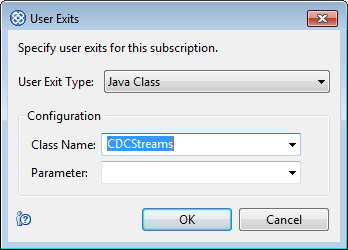
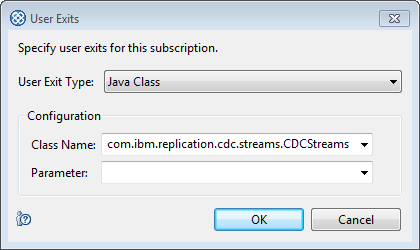
Included images in repository and enhanced documentation

diff --git a/README.md b/README.md
@@ -1,119 +1,10 @@
 # InfoSphere CDC Streams toolkit
 ==============
 
-![documentation readme](documentation/README.md)
-
-
 This toolkit allows Streams to receive tuples from InfoSphere Data Replication Change Data Capture. It provides a CDC Java user exit which allows subscriptions to push record changes to a Streams application and two Streams operators to respectively receive the incoming tuples (CDCSource) and convert (CDCParse) them into a tuple. The toolkit contains an example which demonstrates the use of the Streams operators.
 
-## Installing the toolkit
-You can choose to either install the pre-built toolkit, or to build it yourself on the IBM Streams server using the ant tool. In either case, some manual steps are required to implement the CDC user exit jar file on the CDC Engine server and to make the CDC Access Server files available on the Streams server. 
-
-One part of the toolkit, CDCStreamsUserExit, must be installed on the CDC server; this part contains the user exit which is to be configured for the CDC subscriptions. 
-
-The other component, com.ibm.streamsx.cdc, must be installed on the IBM Streams server and contains the CDCSource and CDCParse operators which can be incorporated into the Streams application.
-
-### Downloading the CDC Streams toolkit
-* Download the full toolkit as a zip file: https://github.com/IBMStreams/streamsx.cdc/archive/master.zip into a temporary directory, for example /tmp
-* Unzip the master.zip file
-
-### Optional: build the toolkit using ant
-Optionally, only if you plan to build (recompile) the toolkit, the CDC Engine jar files are needed to compile the user exit.
-* Create a directory that holds the CDC engine components, for example /tmp/CDCEngine
-* Copy the CDC Engine lib folder to this directory
-
-* Create a directory structure opt/downloaded, which will hold the Access Server jar files, under the CDC Streams toolkit, for example: mkdir -p /tmp/streamsx.cdc/com.ibm.streamsx.cdc/opt/downloaded
-* Copy the contents of the CDC Access Server lib folder (jar files) to the opt/downloaded directory
-* Set the Streams environment variables by sourcing the `streamsprofile.sh` script which can be found in the Streams `bin` directory
-* Set environment variable `CDC_ENGINE_HOME` to the directory that contains the CDC Engine's lib folder, for example `/tmp/CDCEngine`
-* Go to the toolkit's main directory that holds the build.xml file, for example: `cd /tmp/streamsx.cdc`
-* Run `ant`
-
-### Implementing the CDC toolkit on the Streams server
-To access the CDC configuration, the Streams toolkit requires the jar files which are provided as part of the CDC Access Server. If you have not built the toolkit using ant (described in the previous section), you will need to copy the CDC Access Server jar files into the toolkit's directory structure.
-* Create a directory structure opt/downloaded, which will hold the Access Server jar files, under the CDC Streams toolkit, for example: `mkdir -p /tmp/streamsx.cdc/com.ibm.streamsx.cdc/opt/downloaded`
-* Copy the contents of the CDC Access Server lib folder (jar files) to the `opt/downloaded` directory
-
-To register the toolkit in IBM Streams, it must be moved to a directory in the toolkit path.
-* Move the `com.ibm.streamsx.cdc` directory to `$STREAMS_INSTALL/toolkits`; this will make it visible to IBM Streams and Streams Studio
-
-We do not recommend installing the CDC engine and CDC Access Server components on the Streams server, but rather copy the required components to the Streams server.
-
-### Implementing the CDC Streams user exit on CDC target engine
-* Transfer the CDCStreamsUserExit folder to the CDC installation directory (_cdc-home_) on the target engine
-* Update the _cdc-home_/conf/system.cp file and append the following string to the classpath: `:CDCStreamsUserExit:CDCStreamsUserExit/lib/*`
-* Stop all subscriptions targeting the CDC instance in question and restart the instance 
-
-### Configuration
-The behaviour of the CDC Streams user exit is determined by the settings in `CDCStreams.properties` file, which is kept in the `CDCStreamsUserExit` folder. You can create multiple properties files and refer to them as a parameter in the subscription-level user exit. The user exit will first look for the properties file in the CDC engine's classpath (which has been enhanced with the `CDCStreamsUserExit` directory). If the specified properties file is not found in the classpath, the user exit will try to load it from the current directory, which is the _cdc-home_ directory.
-
-The most-important parameters to configure in the CDCStreams.properties file are:
-* outputType: Specifies the target of the user exit. For the tightest integration between CDC and Streams, we recommend to set this parameter to "cdcsource"; this causes the user exit to try to connect to the toolkit's CDCSource operator
-* tcpHostPort: Host name (or IP address) and port that the Streams application is listening to. This parameter applies when the outputType is cdcsource or tcpsource only
+## Installation of the toolkit
+Installation instructions can be found here: [Installing the toolkit](documentation/Installation.md)
 
 ## Getting started
-
-### Mapping tables
-First you must create a subscription referencing the source datastore and the target datastore. The target datastore must reference the CDC installation in which the CDCStreams user exit has been placed.
-
-![01_create_subscription](documentation/Images/01_create_subscription.PNG)
-
-Once the subscription has been created, right-click it and select "User Exit". Subsequently specify CDCStreams as the user exit name and optionally specify the name of the properties file that this subscription will use. If no parameter is specified, the default properties file _cdc-home_/CDCStreamsUserExit/CDCStreams.properties is assumed. By default, the user exit will attempt to find the properties file under the _cdc-home_/CDCStreamsUserExit folder.
-
-![02_subscription_user_exit](https://cloud.githubusercontent.com/assets/8166955/9888417/43104868-5bf5-11e5-8489-71c6148242e5.PNG)
-
-Map a table from source to target, select "Custom" mapping type for mapping an individual table (recommended).
-
-![03_select_mapping_type](https://cloud.githubusercontent.com/assets/8166955/9888420/4312e000-5bf5-11e5-97d6-98f1298ef9de.PNG)
-
-Select the source table for which DML operations must be replicated to your Streams application.
-
-![04_select_source_table](https://cloud.githubusercontent.com/assets/8166955/9888418/4310950c-5bf5-11e5-94a0-48da07bd43a2.PNG)
-
-Effectively you only need one target table for all table mappings; the CDC user exit prevents changes from being written to the selected target table. Create a "dummy" target table the first time you map a table to Streams and re-use this target table for all mappings.
-![05_select_new_target_table](https://cloud.githubusercontent.com/assets/8166955/9888419/4311aa00-5bf5-11e5-9380-4379b4ed3745.PNG)
-![06_create_table](https://cloud.githubusercontent.com/assets/8166955/9888421/4314befc-5bf5-11e5-9a18-16af7cc8ee85.PNG)
-![07_create_table](https://cloud.githubusercontent.com/assets/8166955/9888422/4326b06c-5bf5-11e5-971b-e5b735b3b1f0.PNG)
-![08_remove_columns_add_key](https://cloud.githubusercontent.com/assets/8166955/9888423/432839fa-5bf5-11e5-92a2-ecc6bca3a665.PNG)
-![09_specify_key](https://cloud.githubusercontent.com/assets/8166955/9888425/432d901c-5bf5-11e5-9d33-7d577b54a484.PNG)
-![10_review_table](https://cloud.githubusercontent.com/assets/8166955/9888424/432cfe54-5bf5-11e5-9ac7-dba5d9a8664d.PNG)
-
-Select the target table and specify the key.
-
-![11_select_target_table](https://cloud.githubusercontent.com/assets/8166955/9888427/4332a822-5bf5-11e5-95be-7f88d30c8b65.PNG)
-![12_specify_key](https://cloud.githubusercontent.com/assets/8166955/9888426/432f236e-5bf5-11e5-89dd-f3247714c7da.PNG)
-
-Set the replication method to Mirror.
-
-![13_set_replication_method](https://cloud.githubusercontent.com/assets/8166955/9888429/4340b26e-5bf5-11e5-842d-f3d16be91030.PNG)
-
-Review the mappings and confirm the mapping of the source table.
-
-![14_review_mappings](https://cloud.githubusercontent.com/assets/8166955/9888428/433fbcec-5bf5-11e5-90b3-5c3a32ce9fcb.PNG)
-
-When the table has been successfully mapped, specify "com.ibm.replication.cdc.streams.CDCStreams" as the user exit for the "before insert", "before update" and "before delete" actions.
-
-![15_set_user_exit](https://cloud.githubusercontent.com/assets/8166955/9888430/43471884-5bf5-11e5-8328-2850c43dcfdf.PNG)
-
-Dependent on the target engine, the replication status will be set to either Refresh or Active. Plesae ensure that you select the proper replication status, dependent whether you want all records to be sent to the Streams application at the start of the subscription, or only replicate the changes from this moment on.
-
-### Creating your Streams application 
-
-## Troubleshooting
-If you have issues replicating database transactions to your Streams application, you can validate the correct working of individual components.
-
-### Check the CDC event log and instance log messages
-If the CDCStreams user exit cannot post messages to the Streams applications, or if the subscriptions has not been configured correctly, error messages are issued in the subscription's target event log. You can find additional detailed messages in the instance log file (under _cdc-home_/instance/_instance_/log). Optionally, activate debugging for the user exit by setting debug=true in the CDCStreams.properties configuration file.
-
-### Testing the CDCStreams user exit
-The easiest way to validate that the CDCStreams user exit generates the correct data is by targeting a TCP/IP listener process that is started through the netcat tool. 
-* Change the CDCStreams.properties file and specify "tcpsource" for the outputType property 
-* Subsquently specify <host>:<port> (for example localhost:12345) for the tcpHostPort property
-* Once finished, start a netcat listener on the server you specified in the tcpHostPort property, for example: nc -l 12345
-* Start the CDC subscription. As soon as the subscription starts, it will first send an initialization entry to the listener. Optionally make some database changes to see them appear in the netcat listener
-* If no messages are received by the netcat listener, check the CDC instance log file (under _cdc-home_/instance/_instance_/log) for errors
-
-### Testing the Streams operators
-
-
-
+Once installation is done, here you can find how to use the toolkit: [Using the CDCStreams toolkit](documentation/Usage.md)

diff --git a/documentation/Usage.md b/documentation/Usage.md
@@ -1,0 +1,89 @@
+# Getting started
+
+## Initial configuration
+The behaviour of the CDC Streams user exit is determined by the settings in `CDCStreams.properties` file, which is kept in the `CDCStreamsUserExit` folder. You can create multiple properties files and refer to them as a parameter in the subscription-level user exit. The user exit will first look for the properties file in the CDC engine's classpath (which has been enhanced with the `CDCStreamsUserExit` directory). If the specified properties file is not found in the classpath, the user exit will try to load it from the current directory, which is the _cdc-home_ directory.
+
+The most-important parameters to configure in the CDCStreams.properties file are:
+* outputType: Specifies the target of the user exit. For the tightest integration between CDC and Streams, we recommend to set this parameter to "cdcsource"; this causes the user exit to try to connect to the toolkit's CDCSource operator
+* tcpHostPort: Host name (or IP address) and port that the Streams application is listening to. This parameter applies when the outputType is cdcsource or tcpsource only
+
+## Mapping tables
+First you must create a subscription referencing the source datastore and the target datastore. The target datastore must reference the CDC installation in which the CDCStreams user exit has been placed.
+
+### Create subscription
+![01_create_subscription](Images/01_create_subscription.PNG)
+
+### Select source table
+Map a table from source to target, select "Custom" for mapping an individual table (recommended) and choose Standard mapping type
+
+![03_select_mapping_type](Images/03_select_mapping_type.PNG)
+
+Select the source table for which DML operations must be replicated to your Streams application.
+
+![04_select_source_table](Images/04_select_source_table.PNG)
+
+### First time only: create dummy target table
+Effectively you only need one target table for all table mappings; the CDC user exit prevents changes from being written to the selected target table and only uses the source columns to replicate to the user exit. Create a "dummy" target table the first time you map a table to Streams and re-use this target table for all mappings.
+![05_select_new_target_table](Images/05_select_new_target_table.PNG)
+![06_create_table](Images/06_create_table.PNG)
+![07_create_table](Images/07_create_table.PNG)
+![08_remove_columns_add_key](Images/08_remove_columns_add_key.PNG)
+![09_specify_key](Images/09_specify_key.PNG)
+![10_review_table](Images/10_review_tables.PNG)
+
+### Select the target table
+Select the target table and specify the key. **Note:** If you have already mapped a table in this subscription, and you want to use only 1 "dummy" target table, you have to check the "Include mapped target tables" checkbox to see the `CDCSTREAMS` target table
+
+![11_select_target_table](Images/11_select_target_table.PNG)
+![12_specify_key](Images/12_specify_key.PNG)
+
+### Set replication method
+Set the replication method to Mirror.
+
+![13_set_replication_method](Images/13_set_replication_method.PNG)
+
+Review the mappings and confirm the mapping of the source table.
+
+![14_review_mappings](Images/14_review_mappings.PNG)
+
+### Set table-level user exit
+When the table has been successfully mapped, specify `com.ibm.replication.cdc.streams.CDCStreams` as the user exit for the "before insert", "before update" and "before delete" actions.
+
+![15_set_user_exit](Images/15_set_user_exit.PNG)
+
+Dependent on the target engine, the replication status will be set to either Refresh or Active. Please ensure that you select the proper replication status, dependent whether you want all records to be sent to the Streams application at the start of the subscription, or only replicate the changes from this moment on.
+
+#### Optional: Set parameters for user exit
+The table-level user exit accepts 2 optional parameters: `txTableName` and `fixColumns`.
+
+If you are using CDC Event Server as the target engine, in some configurations the table name may not be provided to the user exit and the subscription will stop with an error. To avoid this error, you can manually provide the fully qualified table name by setting a parameter for the user exit, for example: `txTableName=TELCO.CUST_THRESHOLD`
+
+When some of the source columns contain carriage returns or line feeds or the separator character you have chosen, your Streams application may fail to process the records and issue an error (ArrayOutOfBoundsException), or even transform the input into incorrect data. With the `fixColumns` parameter you can specify which columns must be checked for the existence of a carriage return, line feed or separator character and then replaced by a substitution character that is specified in the properties file. Example: `fixColumns=MSISDN,NAME`
+
+### Set subscription-level user exit (one time only)
+Once at least one table has been mapped, right-click the subscription and select "User Exit". Subsequently specify `com.ibm.replication.cdc.streams.CDCStreams` as the user exit name.
+
+![02_subscription_user_exit](Images/02_subscription_user_exit.PNG)
+
+#### Optional: Configure properties file to be used for this subscription
+You can optionally specify the name of the properties file that this subscription will use, this to obtain the host and port that the Streams application listens on, and specify other settings. If no parameter is specified, the user exit will find the default properties file `CDCStreams.properties` in the classpath of the CDC engine (and thereby find it in the `CDCStreamsUserExit` folder). If the properties file cannot be found in the classpath, the engine's current directory (_cdc-home_) will be searched
+
+### Creating your Streams application 
+
+## Troubleshooting
+If you have issues replicating database transactions to your Streams application, you can validate the correct working of individual components.
+
+### Check the CDC event log and instance log messages
+If the CDCStreams user exit cannot post messages to the Streams applications, or if the subscriptions has not been configured correctly, error messages are issued in the subscription's target event log. You can find additional detailed messages in the instance log file (under _cdc-home_/instance/_instance_/log). Optionally, activate debugging for the user exit by setting debug=true in the CDCStreams.properties configuration file.
+
+### Testing the CDCStreams user exit
+The easiest way to validate that the CDCStreams user exit generates the correct data is by targeting a TCP/IP listener process that is started through the netcat tool. 
+* Change the CDCStreams.properties file and specify "tcpsource" for the outputType property 
+* Subsquently specify <host>:<port> (for example localhost:12345) for the tcpHostPort property
+* Once finished, start a netcat listener on the server you specified in the tcpHostPort property, for example: nc -l 12345
+* Start the CDC subscription. As soon as the subscription starts, it will first send an initialization entry to the listener. Optionally make some database changes to see them appear in the netcat listener
+* If no messages are received by the netcat listener, check the CDC instance log file (under _cdc-home_/instance/_instance_/log) for errors
+
+### Testing the Streams operators
+
+

diff --git a/documentation/Installation.md b/documentation/Installation.md
@@ -1,0 +1,37 @@
+# Installing the CDC Streams toolkit
+You can choose to either install the pre-built toolkit, or to build it yourself on the IBM Streams server using the ant tool. In either case, some manual steps are required to implement the CDC user exit jar file on the CDC Engine server and to make the CDC Access Server files available on the Streams server. 
+
+One part of the toolkit, CDCStreamsUserExit, must be installed on the CDC server; this part contains the user exit which is to be configured for the CDC subscriptions. 
+
+The other component, com.ibm.streamsx.cdc, must be installed on the IBM Streams server and contains the CDCSource and CDCParse operators which can be incorporated into the Streams application.
+
+**Note:** We do not recommend installing the CDC engine and CDC Access Server components on the Streams server, but rather copy the required components to the Streams server.
+
+## Downloading the CDC Streams toolkit
+* Download the full toolkit as a zip file: `https://github.com/IBMStreams/streamsx.cdc/archive/master.zip` into a temporary directory, for example `/tmp`
+* Unzip the `master.zip` file
+
+## Include the CDC Access Server jar files in the toolkit
+* Copy the contents of the CDC Access Server lib folder (jar files) to the `opt/downloaded` directory under the CDC Streams toolkit folder, `com.ibm.streamsx.cdc`, for example `/tmp/streamsx.cdc/com.ibm.streamsx.cdc/opt/downloaded`
+* **Please note: ** The jar files copied into the toolkit folder must match the version of the CDC Access Server it will connect to. If you upgrade the existing CDC Access Server installation, you must replace the contents of the `opt/downloaded` folder with the new version of the upgraded Access Server jar files 
+
+
+## Optional: build the toolkit using ant
+Optionally, only if you plan to build (recompile) the toolkit, you can execute the steps below. These steps must be run on the Streams server and require the CDC Engine's jar files, a Java compiler and the Ant tool
+* Create a directory that holds the CDC engine components, for example `/tmp/CDCEngine`
+* Copy the CDC Engine `lib` folder to this directory
+* Set the Streams environment variables by sourcing the `streamsprofile.sh` script which can be found in the Streams installation `bin` directory
+* Set environment variable `CDC_ENGINE_HOME` to the directory that contains the CDC Engine's lib folder, for example `/tmp/CDCEngine`
+* Go to the toolkit's main directory that holds the `build.xml` file, for example: `cd /tmp/streamsx.cdc`
+* Run `ant`
+
+## Implementing the CDC toolkit on the Streams server
+To register the toolkit in IBM Streams, it must be moved to a directory in the toolkit path.
+* Move the `com.ibm.streamsx.cdc` directory to `$STREAMS_INSTALL/toolkits`; this will make it visible to IBM Streams and Streams Studio. Alternatively you can move it to a different directory and include it in the Streams toolkit path
+
+## Implementing the CDC Streams user exit on CDC target engine
+The CDC Streams user exit takes care of sending the tuples to the Streams application and must be implemented on the CDC (java) target engine. If your CDC source engine is one of the java engines (for Oracle, DB2 LUW, SQL Server, etc.), you can also implement the user exit on the source server and set up loop-back subscription. 
+* Transfer the CDCStreamsUserExit folder to the CDC installation directory (_cdc-home_) on the target engine
+* Update the `conf/system.cp` file which can be found in the _cdc-home_ and append the following string to the classpath: `:CDCStreamsUserExit:CDCStreamsUserExit/lib/*`. If the CDC target engine runs on Windows, the `:` characters must be substituted by `;`
+* Stop all subscriptions targeting the CDC instance in question and restart the instance 
+
